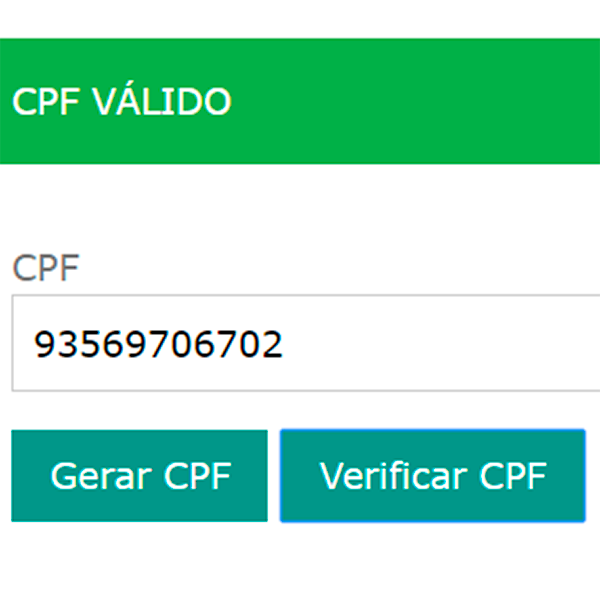
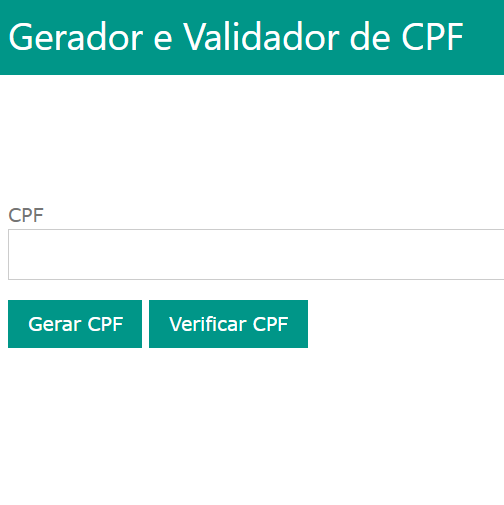
Add files via upload

diff --git a/index.html b/index.html
@@ -330,28 +330,29 @@
 								<ul class="arlo_tm_portfolio_list gallery_zoom">
 									<li class="soluções">
 										<div class="entry arlo_tm_portfolio_animation_wrap" data-title="Gerador e Validador de CPF" data-category="Soluções">
-											
+											<a href="https://viniciusonps.github.io/validador-e-gerador-de-cpf/">
 												<img src="img/portfolio/600x600.jpg" alt="" />
 												<div class="arlo_tm_portfolio_image_main" data-img-url="img/cpf.png"></div>
+											</a>
 											
 										</div>
 									</li>
-									<!-- <li class="photography">
-										<div class="entry arlo_tm_portfolio_animation_wrap" data-title="Ind Hed" data-category="Photography">
-											<a href="portfolio-single-2.html">
+									<li class="soluções">
+										<div class="entry arlo_tm_portfolio_animation_wrap" data-title="Criptografador de mensagens" data-category="Soluções">
+											<a href="https://viniciusonps.github.io/criptografador/">
 												<img src="img/portfolio/600x600.jpg" alt="" />
-												<div class="arlo_tm_portfolio_image_main" data-img-url="img/portfolio/2.jpg"></div>
+												<div class="arlo_tm_portfolio_image_main" data-img-url="img/criptografador.png"></div>
 											</a>
 										</div>
 									</li>
-									<li class="development">
-										<div class="entry arlo_tm_portfolio_animation_wrap" data-title="Paper Mockup" data-category="Development">
-											<a href="portfolio-single-3.html">
+									<li class="webdesign">
+										<div class="entry arlo_tm_portfolio_animation_wrap" data-title="Curriculo" data-category="Web Design">
+											<a href="https://viniciusonps.github.io/curriculo/">
 												<img src="img/portfolio/600x600.jpg" alt="" />
-												<div class="arlo_tm_portfolio_image_main" data-img-url="img/portfolio/3.jpg"></div>
+												<div class="arlo_tm_portfolio_image_main" data-img-url="img/curriculo.png"></div>
 											</a>
 										</div>
-									</li> -->
+									</li>
 								</ul>
 							</div>
 						</div>
@@ -384,23 +385,23 @@
 															<p>“Você não consegue ligar os pontos olhando pra frente; você só consegue ligá-los olhando pra trás.”</p>
 														</div>
 														<div class="name_holder">
-															<p>Steve Jobs, Apple's CEO</p>
+															<p>Steve Jobs, Apple CEO</p>
 														</div>
 													</div>
 												</li>
-											<!--	<li class="item">
+												<li class="item">
 													<div class="inner">
 														<div class="quotebox_wrap">
 															<i class="xcon-quote-left"></i>
 														</div>
 														<div class="definitions_wrap">
-															<p>“We were looking for a logo with a touch of modernism. Arlo grasped our needs and produced a stunning design.”</p>
+															<p>“Eu acredito que é possível que pessoas comuns escolham ser extraordinárias.”</p>
 														</div>
 														<div class="name_holder">
-															<p>Calena Gomez, AOC Designer</p>
+															<p>Elon Musk, SpaceX & Tesla CEO</p>
 														</div>
 													</div>
-												</li>
+												<!-- </li>
 												<li class="item">
 													<div class="inner">
 														<div class="quotebox_wrap">
